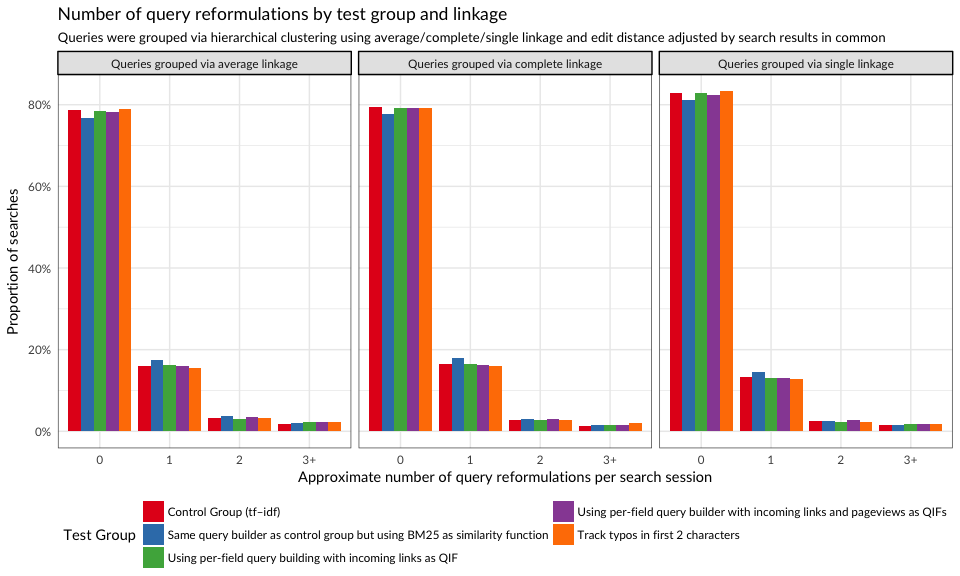
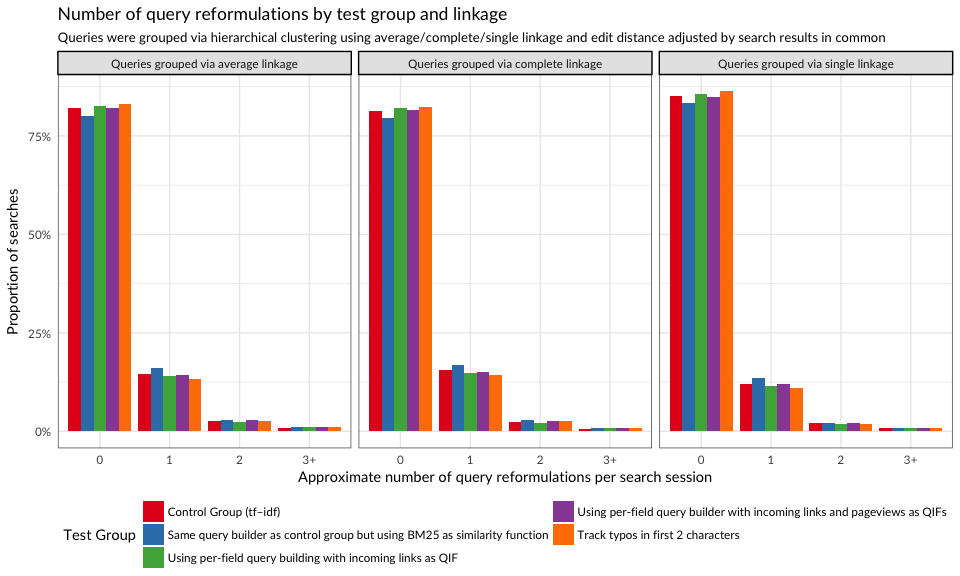
First draft

diff --git a/docs/index.html b/docs/index.html
@@ -16,9 +16,9 @@
 <meta name="author" content="Deb Tankersley (Product Management)" />
 <meta name="author" content="Chelsy Xie (Review)" />
 
-<meta name="date" content="2016-09-29" />
+<meta name="date" content="2016-09-30" />
 
-<title>A/B Test of BM25 Search Ranking</title>
+<title>Improving search result relevancy on Wikipedia with BM25 ranking</title>
 
 <script src="index_files/jquery-1.11.3/jquery.min.js"></script>
 <script src="index_files/jqueryui-1.11.4/jquery-ui.min.js"></script>
@@ -272,15 +272,15 @@ div.tocify {
 
 
 
-<h1 class="title toc-ignore">A/B Test of BM25 Search Ranking</h1>
-<h3 class="subtitle"><em>Almost First Draft</em></h3>
+<h1 class="title toc-ignore">Improving search result relevancy on Wikipedia with BM25 ranking</h1>
+<h3 class="subtitle"><em>First Draft</em></h3>
 <h4 class="author"><em><a href = 'https://meta.wikimedia.org/wiki/User:EBernhardson_(WMF)'>Erik Bernhardson</a> (Engineering)</em></h4>
 <h4 class="author"><em><a href = 'https://www.mediawiki.org/wiki/User:DCausse_(WMF)'>David Causse</a> (Engineering)</em></h4>
 <h4 class="author"><em><a href = 'https://meta.wikimedia.org/wiki/User:TJones_(WMF)'>Trey Jones</a> (Engineering &amp; Review)</em></h4>
 <h4 class="author"><em><a href = 'https://meta.wikimedia.org/wiki/User:MPopov_(WMF)'>Mikhail Popov</a> (Analysis &amp; Report)</em></h4>
 <h4 class="author"><em><a href = 'https://meta.wikimedia.org/wiki/User:DTankersley_(WMF)'>Deb Tankersley</a> (Product Management)</em></h4>
 <h4 class="author"><em><a href = 'https://meta.wikimedia.org/wiki/User:CXie_(WMF)'>Chelsy Xie</a> (Review)</em></h4>
-<h4 class="date"><em>29 September 2016</em></h4>
+<h4 class="date"><em>30 September 2016</em></h4>
 
 </div>
 
@@ -300,37 +300,21 @@ $(function() {
 <p>
 { <a href="https://github.com/wikimedia-research/Discovery-Search-Test-BM25/blob/master/docs/index.Rmd">RMarkdown Source</a> | <a href="https://github.com/wikimedia-research/Discovery-Search-Test-BM25">Analysis Codebase</a> }
 </p>
-<div class="sourceCode"><pre class="sourceCode r"><code class="sourceCode r"><span class="co"># Load packages that we will be using in this report:</span>
-
-<span class="co"># install.packages(&quot;devtools&quot;)</span>
-<span class="co"># devtools::install_github(&quot;hadley/ggplot2&quot;)</span>
-<span class="co"># ^ development version of ggplot2 includes subtitles</span>
-<span class="co"># devtools::install_github(&quot;wikimedia/wikimedia-discovery-polloi&quot;)</span>
-<span class="co"># ^ for compressing 100000 into 100K</span>
-
-<span class="kw">library</span>(tidyverse) <span class="co"># install.packages(&quot;tidyverse&quot;)</span>
-<span class="co"># ^ for ggplot2, dplyr, tidyr, broom, etc.</span>
-
-<span class="kw">library</span>(binom) <span class="co"># install.packages(&quot;binom&quot;)</span>
-<span class="co"># ^ for Bayesian confidence intervals of proportions</span>
-
-<span class="co"># Font to go together with HTML version of report: http://www.latofonts.com/</span>
-<span class="co"># extrafont::font_import(&quot;~/Downloads/Lato2OFL&quot;)</span></code></pre></div>
 <div id="executive-summary" class="section level2">
 <h2>Executive Summary</h2>
 <p>In order to improve the relevancy of search results, Discovery’s Search team has decided to test a new document ranking method called BM25, which would replace the term frequency–inverse document frequency (tf–idf) method that is currently used. We saw the following results from our analysis:</p>
 <dl>
 <dt>Same query builder as control group but using BM25 as similarity function</dt>
-<dd>For searches made by users in this group, we use the same query builder as we use for the control group but we switched the similarity function to BM25 and employ a weighted sum for the incoming links query independant factor (QIF). Users in this group were less likely to click on the 1st search result and instead more likely to click on the second search result. They were also more likely to reformulate their query. With regards to zero results rate (ZRR), PaulScore, and engagement, users in this group were very similar to users in the control group.
+<dd>For searches made by users in this group, we use the same query builder as we use for the control group but we switched the similarity function to BM25 and employ a weighted sum for the incoming links query independent factor (QIF). Users in this group were less likely to click on the 1st search result and instead more likely to click on the second search result. They were also more likely to reformulate their query. With regards to zero results rate (ZRR), PaulScore, and engagement, users in this group were very similar to users in the control group.
 </dd>
 <dt>Using per-field query building with incoming links as QIF</dt>
-<dd>For searches made by users in this group, we use BM25 similarity and switch to a per-field query builder using only incoming links as a query independant factor. This group had the second-highest PaulScores and engagement, both in searches where the user reformulated their query and in searches without query reformulation. Users in this group were more likely to click on the first search result than users in the control group.
+<dd>For searches made by users in this group, we use BM25 similarity and switch to a per-field query builder using only incoming links as a query independent factor. This group had the second-highest PaulScores and engagement in searches where the user reformulated their query. Users in this group were more likely to click on the first search result than users in the control group.
 </dd>
 <dt>Using per-field query builder with incoming links and pageviews as QIFs</dt>
 <dd>Similar to the group described above but we added pageviews as an additional query independent factor for searches made by users in this group. This group had the highest PaulScores and engagement, both in searches where the user reformulated their query and in searches without query reformulation. Users in this group were a lot more likely to click on the first search result than users in the control group.
 </dd>
 <dt>Track typos in first 2 characters</dt>
-<dd>Similar to the group described above (<em>using per-field query builder with incoming links and pageviews as QIFs</em>), but with an additional field to track typos in the first two characters. This group had the lowest ZRR, and its ZRR was statistically significantly smaller than the control group’s ZRR. This group also had the smallest proportion of searches where the user reformulated their query. Users in this group were a lot more likely to click on the first search result than users in the control group.
+<dd>Similar to the group described above (<em>using per-field query builder with incoming links and pageviews as QIFs</em>), but with an additional field to track typos in the first two characters. This group had the lowest ZRR, and its ZRR was significantly smaller than the control group’s ZRR. This group also had the smallest proportion of searches where the user reformulated their query. Users in this group were a lot more likely to click on the first search result than users in the control group, but had lowest overall engagement with the search results.
 </dd>
 </dl>
 <p>We recommend switching to BM25 ranking with incoming links (and possibly pageviews) as query-independent factors, as this configuration appears to give users results that are more relevant and that they engage with more (especially the first search result).</p>
@@ -355,10 +339,10 @@ $(function() {
 <dd>Identical to what we serve to our users today plus an artificial latency to compensate the fact that we run the other buckets on another data center. (nDCG<sub>5</sub> score on Discernatron: 0.2772)
 </dd>
 <dt>Same query builder as control group but using BM25 as similarity function</dt>
-<dd>For searches made by users in this group, we use the same query builder as we use for the control group but we switched the similarity function to BM25 and employ a weighted sum for the incoming links query independant factor (QIF). We expected this bucket to behave poorly in term of clickthrough compared to the control group. We included this group confirm our assumptions that the current query builder and the “all field” approach is not designed for the BM25 similarity. (nDCG<sub>5</sub> score on Discernatron: 0.2689)
+<dd>For searches made by users in this group, we use the same query builder as we use for the control group but we switched the similarity function to BM25 and employ a weighted sum for the incoming links query independent factor (QIF). We expected this bucket to behave poorly in term of clickthrough compared to the control group. We included this group confirm our assumptions that the current query builder and the “all field” approach is not designed for the BM25 similarity. (nDCG<sub>5</sub> score on Discernatron: 0.2689)
 </dd>
 <dt>Using per-field query building with incoming links as QIF</dt>
-<dd>For searches made by users in this group, we use BM25 similarity and switch to a per-field query builder using only incoming links as a query independant factor. This is the best contender according to Discernatron. We expect an increase in clickthrough because it tends rank obvious matches in the top 3. (nDCG<sub>5</sub> score on Discernatron: 0.3362)
+<dd>For searches made by users in this group, we use BM25 similarity and switch to a per-field query builder using only incoming links as a query independent factor. This is the best contender according to Discernatron. We expect an increase in clickthrough because it tends rank obvious matches in the top 3. (nDCG<sub>5</sub> score on Discernatron: 0.3362)
 </dd>
 <dt>Using per-field query builder with incoming links and pageviews as QIFs</dt>
 <dd>Similar to the group described above but we added pageviews as an additional query independent factor for searches made by users in this group. The weight for pageviews is still very low compared to incoming links and this test is mostly to see how pageviews could affect the ranking. We expect a very minimal difference in behavior compared to group <em>using per-field query building with incoming links as QIF</em>. (nDCG<sub>5</sub> score on Discernatron: 0.3359)
@@ -398,8 +382,58 @@ $(function() {
 <strong>Snippet 1</strong>: Query used to extract BM25 test data from our event logging database.
 </p>
 </div>
+<div id="software" class="section level3">
+<h3>Software</h3>
+<p>We used the statistical analysis software and programming language R<sup><a href="#ref-2">[2]</a></sup> to perform this analysis. R packages used the most in this report include ggplot2<sup><a href="#ref-4">[4]</a></sup>, dplyr<sup><a href="#ref-5">[5]</a></sup>, and binom<sup><a href="#ref-8">[8]</a></sup>.</p>
+<div class="sourceCode"><pre class="sourceCode r"><code class="sourceCode r"><span class="co"># Install packages used in the report:</span>
+<span class="kw">install.packages</span>(<span class="kw">c</span>(<span class="st">&quot;devtools&quot;</span>, <span class="st">&quot;tidyverse&quot;</span>, <span class="st">&quot;binom&quot;</span>))
+devtools::<span class="kw">install_github</span>(<span class="st">&quot;hadley/ggplot2&quot;</span>)
+<span class="co"># ^ development version of ggplot2 includes subtitles</span>
+devtools::<span class="kw">install_github</span>(<span class="st">&quot;wikimedia/wikimedia-discovery-polloi&quot;</span>)
+<span class="co"># ^ for converting 100000 into 100K via polloi::compress()</span></code></pre></div>
+<div class="sourceCode"><pre class="sourceCode r"><code class="sourceCode r"><span class="co"># Load packages that we will be using in this report:</span>
+<span class="kw">library</span>(tidyverse) <span class="co"># for ggplot2, dplyr, tidyr, broom, etc.</span>
+<span class="kw">library</span>(binom) <span class="co"># for Bayesian confidence intervals of proportions</span></code></pre></div>
+</div>
 <div id="query-reformulation-detection" class="section level3">
 <h3>Query Reformulation Detection</h3>
+<p>When a user searches Wikipedia using query <span class="math inline">\(Q\)</span> and does not get the results that they were looking for then they might give up, or they might reformulate their query and search for <span class="math inline">\(Q&#39;, Q&#39;&#39;, Q&#39;&#39;&#39;\)</span>, etc., each time fixing a typo, editing a word, or adding new information. For example, if the user searches for the restaurant chain “Buffalo Wild Wings” using the search query “buffalo”, they won’t see the result on the first search results page. The user might go to the second page of results, in which case they would see the result they want, or they user might reformulate their query to instead say “buffalo wings”.</p>
+<p>First, we computed the <a href="https://en.wikipedia.org/wiki/Levenshtein_distance">Levenshtein (edit) distance</a> (normalized via dividing by maximum of two search queries). Then we adjusted those normalized distances by the amount that their search results overlapped. Specifically, if <span class="math inline">\(d_{Q, Q&#39;}\)</span> is the edit distance between queries <span class="math inline">\(Q\)</span> and <span class="math inline">\(Q&#39;\)</span> and <span class="math inline">\(\rho_{Q, Q&#39;} \in [0, 1]\)</span> is the number of results in common normalized via dividing by minimum size of the two result sets, then the new distance is: <span class="math display">\[{d&#39;}_{Q, Q&#39;} = \frac{d_{Q, Q&#39;}}{10^{\rho_{Q, Q&#39;}}}.\]</span> So if <span class="math inline">\(Q\)</span> and <span class="math inline">\(Q&#39;\)</span> are moderately similar but have all results in common, then the new distance is 1/10<sup>th</sup> of their initially calculated distance, and brings them a lot closer to each other. If they do not have any results in common, their edit distance in unaffected. After we have calculated the distances between queries in a search session, we use <a href="https://en.wikipedia.org/wiki/Cluster_analysis#Connectivity-based_clustering_.28hierarchical_clustering.29">hierarchical agglomerative clustering</a> to group those queries based on their adjusted closeness (similarity). In this report we present an analysis result when employing each of the three linkages (<a href="https://en.wikipedia.org/wiki/Complete-linkage_clustering">complete</a>, <a href="https://en.wikipedia.org/wiki/Single-linkage_clustering">single</a>, and <a href="https://en.wikipedia.org/wiki/UPGMA">average</a>), since the choice of linkage affects the clustering (see Table 1 for an example).</p>
+<p>For example:</p>
+<table>
+<thead>
+<tr class="header">
+<th align="left">Search query</th>
+<th align="center">Single-linkage</th>
+<th align="center">Complete-linkage</th>
+</tr>
+</thead>
+<tbody>
+<tr class="odd">
+<td align="left">brtisth gas</td>
+<td align="center">A</td>
+<td align="center">A</td>
+</tr>
+<tr class="even">
+<td align="left">brtisth gaz</td>
+<td align="center">A</td>
+<td align="center">A</td>
+</tr>
+<tr class="odd">
+<td align="left">brtisth gazcomapny</td>
+<td align="center">B</td>
+<td align="center">A</td>
+</tr>
+<tr class="even">
+<td align="left">fusion shell bg group</td>
+<td align="center">C</td>
+<td align="center">B</td>
+</tr>
+</tbody>
+</table>
+<p class="caption">
+<strong>Table 1</strong>: Example of how choice of linkage affects clustering of queries from a real search session.
+</p>
 <div class="sourceCode"><pre class="sourceCode r"><code class="sourceCode r">overlapping_results &lt;-<span class="st"> </span>function(x) {
   if (<span class="kw">all</span>(<span class="kw">is.na</span>(x))) {
     <span class="kw">return</span>(<span class="kw">diag</span>(<span class="kw">length</span>(x)))
@@ -427,7 +461,7 @@ cluster_queries &lt;-<span class="st"> </span>function(queries, results, <span c
   input &lt;-<span class="st"> </span><span class="kw">data.frame</span>(<span class="dt">query =</span> queries, <span class="dt">stringsAsFactors =</span> <span class="ot">FALSE</span>)
   x &lt;-<span class="st"> </span><span class="kw">do.call</span>(rbind, <span class="kw">lapply</span>(input$query, function(x) {
     <span class="co"># Compute for each x in input$query the normalized edit distance from x to input$query:</span>
-    normalized_distances &lt;-<span class="st"> </span><span class="kw">adist</span>(<span class="kw">tolower</span>(x), <span class="kw">tolower</span>(input$query), <span class="dt">fixed =</span> <span class="ot">TRUE</span>)/<span class="kw">max</span>(<span class="kw">nchar</span>(input$query))
+    normalized_distances &lt;-<span class="st"> </span><span class="kw">adist</span>(<span class="kw">tolower</span>(x), <span class="kw">tolower</span>(input$query), <span class="dt">fixed =</span> <span class="ot">TRUE</span>)/<span class="kw">pmax</span>(<span class="kw">nchar</span>(x), <span class="kw">nchar</span>(input$query))
     <span class="co"># Return:</span>
     <span class="kw">return</span>(normalized_distances)
   }))
@@ -472,11 +506,10 @@ cluster_queries &lt;-<span class="st"> </span>function(queries, results, <span c
   }
   <span class="kw">return</span>(output$cluster)
 }</code></pre></div>
-<p>Sed finibus magna eu turpis laoreet, eu convallis ex convallis. Suspendisse potenti. Maecenas bibendum nunc at leo iaculis laoreet. Cras eros libero, sollicitudin sed ligula quis, molestie rutrum est. Aenean pharetra volutpat luctus. Nulla facilisi. Ut rutrum, augue ac faucibus maximus, dui sem lacinia lectus, ut egestas dui ligula sed enim. Nunc tincidunt velit eu augue tincidunt maximus. Nam nec ante nec lacus iaculis fringilla eu non turpis. Duis id urna vehicula, mattis urna sed, condimentum neque. Nunc eget lectus elementum, imperdiet odio suscipit, tristique mauris.</p>
 </div>
 <div id="paulscore-definition" class="section level3">
 <h3>PaulScore Definition</h3>
-<p>PaulScore<a href="#ref-1">[1]</a> is computed via the following steps:</p>
+<p>PaulScore<a href="#ref-1">[1]</a> is a measure of search results’ relevancy which takes into account the position of the clicked results, and is computed via the following steps:</p>
 <ol>
 <li>Pick scoring factor <span class="math inline">\(0 &lt; F &lt; 1\)</span>.</li>
 <li>For <span class="math inline">\(i\)</span>-th search session <span class="math inline">\(S_i\)</span> <span class="math inline">\((i = 1, \ldots, n)\)</span> containing <span class="math inline">\(m\)</span> queries <span class="math inline">\(Q_1, \ldots, Q_m\)</span> and search result sets <span class="math inline">\(\mathbf{R}_1, \ldots, \mathbf{R}_m\)</span>:
@@ -518,7 +551,7 @@ events$test_group &lt;-<span class="st"> </span><span class="kw">factor</span>(
 cirrus &lt;-<span class="st"> </span>readr::<span class="kw">read_tsv</span>(<span class="kw">path</span>(<span class="st">&quot;data/ab-test_bm25_cirrus-results.tsv.gz&quot;</span>), <span class="dt">col_types =</span> <span class="st">&quot;ccc&quot;</span>)
 events &lt;-<span class="st"> </span><span class="kw">left_join</span>(events, cirrus, <span class="dt">by =</span> <span class="kw">c</span>(<span class="st">&quot;event_id&quot;</span>, <span class="st">&quot;page_id&quot;</span>))
 <span class="kw">rm</span>(cirrus)</code></pre></div>
-<p>The test was deployed on September 1st and ran for 10 days, collecting a total of 119.6K events from 36.2K unique sessions. See Table 1 for counts broken down by test group.</p>
+<p>The test was deployed on September 1st and ran for 10 days, collecting a total of 119.6K events from 36.2K unique sessions. See Table 2 for counts broken down by test group.</p>
 <div class="sourceCode"><pre class="sourceCode r"><code class="sourceCode r">events_summary &lt;-<span class="st"> </span>events %&gt;%
 <span class="st">  </span><span class="kw">group_by</span>(<span class="st">`</span><span class="dt">Test group</span><span class="st">`</span> =<span class="st"> </span>test_group) %&gt;%
 <span class="st">  </span><span class="kw">summarize</span>(<span class="st">`</span><span class="dt">Search sessions</span><span class="st">`</span> =<span class="st"> </span><span class="kw">length</span>(<span class="kw">unique</span>(search_id)), <span class="st">`</span><span class="dt">Events recorded</span><span class="st">`</span> =<span class="st"> </span><span class="kw">n</span>()) %&gt;%
@@ -579,11 +612,11 @@ knitr::<span class="kw">kable</span>(events_summary, <span class="dt">format =</
 </tbody>
 </table>
 <p class="caption">
-<strong>Table 1</strong>: Counts of sessions anonymously tracked and events collected during the one-week-long A/B test.
+<strong>Table 2</strong>: Counts of sessions anonymously tracked and events collected during the one-week-long A/B test.
 </p>
 <div id="serp-de-duplication" class="section level3">
 <h3>SERP De-duplication</h3>
-<p>Duis massa dolor, luctus nec purus sed, euismod condimentum neque. Maecenas laoreet mauris at dui consequat gravida. Curabitur ut consequat lacus. In libero sem, dignissim ac ultricies eget, ornare eu ex. Phasellus sed lacus malesuada, luctus sapien et, gravida risus. Phasellus sed tempor metus. Morbi a dignissim tellus.</p>
+<p>An issue we noticed with the event logging is that when the user goes to the next page of search results or clicks the Back button after visiting a search result, a new page ID is generated for the search results page. The page ID is how we connect click events to search result page events. There is currently a Phabricator ticket (<a href="https://phabricator.wikimedia.org/T146337">T146337</a>) for addressing these issues. For this analysis, we de-duplicated by connecting SERP events that have the exact same search query, and then connected click events together based on the SERP connection.</p>
 <div class="sourceCode"><pre class="sourceCode r"><code class="sourceCode r"><span class="co"># Correct for when user uses pagination or uses back button to go back to SERP after visiting a result.</span>
 <span class="co"># Start by assigning the same page_id to different SERPs that have exactly the same query:</span>
 temp &lt;-<span class="st"> </span>events %&gt;%
@@ -630,12 +663,13 @@ safe_clust &lt;-<span class="st"> </span>function(search_id, page_ids, queries, 
     <span class="kw">return</span>(clusters)
   }
 }</code></pre></div>
+<p>After de-duplicating, we collapsed 101.1K (SERP and click) events into 70K searches.</p>
 <div class="sourceCode"><pre class="sourceCode r"><code class="sourceCode r">searches &lt;-<span class="st"> </span>searches %&gt;%
 <span class="st">  </span><span class="kw">group_by</span>(<span class="st">`</span><span class="dt">test group</span><span class="st">`</span>, session_id, search_id) %&gt;%
 <span class="st">  </span><span class="kw">mutate</span>(
-    <span class="dt">cluster_single =</span> <span class="kw">safe_clust</span>(search_id, page_id, query, <span class="st">`</span><span class="dt">result page IDs</span><span class="st">`</span>, <span class="fl">0.3</span>, <span class="st">&quot;single&quot;</span>),
+    <span class="dt">cluster_single =</span> <span class="kw">safe_clust</span>(search_id, page_id, query, <span class="st">`</span><span class="dt">result page IDs</span><span class="st">`</span>, <span class="fl">0.301</span>, <span class="st">&quot;single&quot;</span>),
     <span class="dt">cluster_average =</span> <span class="kw">safe_clust</span>(search_id, page_id, query, <span class="st">`</span><span class="dt">result page IDs</span><span class="st">`</span>, <span class="fl">0.433</span>, <span class="st">&quot;average&quot;</span>),
-    <span class="dt">cluster_complete =</span> <span class="kw">safe_clust</span>(search_id, page_id, query, <span class="st">`</span><span class="dt">result page IDs</span><span class="st">`</span>, <span class="fl">0.377</span>, <span class="st">&quot;complete&quot;</span>)
+    <span class="dt">cluster_complete =</span> <span class="kw">safe_clust</span>(search_id, page_id, query, <span class="st">`</span><span class="dt">result page IDs</span><span class="st">`</span>, <span class="fl">0.45</span>, <span class="st">&quot;complete&quot;</span>)
   )</code></pre></div>
 <div class="sourceCode"><pre class="sourceCode r"><code class="sourceCode r">most_common &lt;-<span class="st"> </span>function(x) {
   if (<span class="kw">all</span>(<span class="kw">is.na</span>(x))) {
@@ -684,7 +718,7 @@ query_reformulations &lt;-<span class="st"> </span><span class="kw">bind_rows</s
 </div>
 <div id="query-reformulation" class="section level3">
 <h3>Query Reformulation</h3>
-<p>In Figures 1 and 2, we see…</p>
+<p>As mentioned in the Methods section, we used hierarchical clustering to group similar searches together. That is, if the edit distance between two search queries is small enough and the search result sets overlap, those searches are probably the user reformulating their query. In Figures 1 and 2, we see proportions of searches that were reformulations, according to three different ways to group searches. The second group (“same query builder as control group but using BM25”) had the highest proportion of searches where the user reformulated their query at least once. According to clustering via single linkage, the last group (BM25 with incoming links and tracking typos) had the lowest proportion of query reformulations.</p>
 <div class="sourceCode"><pre class="sourceCode r"><code class="sourceCode r"><span class="co"># Calculate proportions of searches with 0, 1, 2, 3+ query reformulations</span>
 query_reformulations %&gt;%
 <span class="st">  </span><span class="kw">mutate</span>(<span class="st">`</span><span class="dt">query reformulations</span><span class="st">`</span> =<span class="st"> </span>forcats::<span class="kw">fct_lump</span>(<span class="kw">factor</span>(reformulations), <span class="dv">3</span>, <span class="dt">other_level =</span> <span class="st">&quot;3+&quot;</span>)) %&gt;%
@@ -728,12 +762,12 @@ reformulation_counts &lt;-<span class="st"> </span><span class="kw">cbind</span>
              <span class="dt">data =</span> <span class="kw">filter</span>(reformulation_counts, <span class="st">`</span><span class="dt">test group</span><span class="st">`</span> ==<span class="st"> &quot;Control Group (tf–idf)&quot;</span>)) +
 <span class="st">  </span><span class="kw">geom_pointrange</span>(<span class="kw">aes</span>(<span class="dt">ymin =</span> lower, <span class="dt">ymax =</span> upper), <span class="dt">position =</span> <span class="kw">position_dodge</span>(<span class="dt">width =</span> <span class="dv">1</span>)) +
 <span class="st">  </span><span class="kw">scale_y_continuous</span>(<span class="dt">labels =</span> scales::<span class="kw">percent_format</span>(),
-                     <span class="dt">breaks =</span> <span class="kw">seq</span>(.<span class="dv">16</span>, .<span class="dv">24</span>, <span class="fl">0.01</span>),
-                     <span class="dt">minor_breaks =</span> <span class="kw">seq</span>(.<span class="dv">16</span>, .<span class="dv">24</span>, <span class="fl">0.005</span>),
+                     <span class="dt">breaks =</span> <span class="kw">seq</span>(.<span class="dv">10</span>, .<span class="dv">24</span>, <span class="fl">0.01</span>),
+                     <span class="dt">minor_breaks =</span> <span class="kw">seq</span>(.<span class="dv">10</span>, .<span class="dv">24</span>, <span class="fl">0.005</span>),
                      <span class="dt">expand =</span> <span class="kw">c</span>(<span class="fl">0.01</span>, <span class="fl">0.01</span>)) +
 <span class="st">  </span><span class="kw">scale_color_brewer</span>(<span class="st">&quot;Test Group&quot;</span>, <span class="dt">palette =</span> <span class="st">&quot;Set1&quot;</span>, <span class="dt">guide =</span> <span class="kw">guide_legend</span>(<span class="dt">ncol =</span> <span class="dv">2</span>)) +
 <span class="st">  </span><span class="kw">facet_wrap</span>(~<span class="st"> </span>linkage, <span class="dt">ncol =</span> <span class="dv">3</span>) +
-<span class="st">  </span><span class="kw">geom_text</span>(<span class="kw">aes</span>(<span class="dt">label =</span> <span class="kw">sprintf</span>(<span class="st">&quot;%.1f%%&quot;</span>, <span class="dv">100</span> *<span class="st"> </span>proportion), <span class="dt">y =</span> upper +<span class="st"> </span><span class="fl">0.005</span>, <span class="dt">vjust =</span> <span class="st">&quot;bottom&quot;</span>),
+<span class="st">  </span><span class="kw">geom_text</span>(<span class="kw">aes</span>(<span class="dt">label =</span> <span class="kw">sprintf</span>(<span class="st">&quot;%.1f%%&quot;</span>, <span class="dv">100</span> *<span class="st"> </span>proportion), <span class="dt">y =</span> upper +<span class="st"> </span><span class="fl">0.0025</span>, <span class="dt">vjust =</span> <span class="st">&quot;bottom&quot;</span>),
             <span class="dt">position =</span> <span class="kw">position_dodge</span>(<span class="dt">width =</span> <span class="dv">1</span>)) +
 <span class="st">  </span><span class="kw">labs</span>(<span class="dt">y =</span> <span class="st">&quot;% of searches with query reformulations&quot;</span>, <span class="dt">x =</span> <span class="ot">NULL</span>,
        <span class="dt">title =</span> <span class="st">&quot;Searches with reformulated queries by test group (and linkage)&quot;</span>,
@@ -753,7 +787,7 @@ reformulation_counts &lt;-<span class="st"> </span><span class="kw">cbind</span>
 </div>
 <div id="zero-results-rate" class="section level3">
 <h3>Zero Results Rate</h3>
-<p>In Figure 3, we see…</p>
+<p>In Figure 3, we see that zero results rate (ZRR) was not so different between the groups. The test group where we tracked typos in first two characters had a significantly lower ZRR, but perhaps at the cost of relevance and engagement with the results (see Figure 5).</p>
 <div class="sourceCode"><pre class="sourceCode r"><code class="sourceCode r">zrr_pages &lt;-<span class="st"> </span>searches %&gt;%
 <span class="st">  </span><span class="kw">group_by</span>(<span class="st">`</span><span class="dt">test group</span><span class="st">`</span>, results) %&gt;%
 <span class="st">  </span>tally %&gt;%
@@ -783,7 +817,7 @@ zrr_pages &lt;-<span class="st"> </span><span class="kw">cbind</span>(zrr_pages,
 </div>
 <div id="paulscore" class="section level3">
 <h3>PaulScore</h3>
-<p>In Figure 4, we see…</p>
+<p>In Figure 4, we see that the test groups that used BM25 with incoming links and pageviews as query-independent factors had higher PaulScores, which indicates that the results were more relevant.</p>
 <div class="sourceCode"><pre class="sourceCode r"><code class="sourceCode r"><span class="kw">set.seed</span>(<span class="dv">0</span>) <span class="co"># for reproducibility</span>
 paulscores &lt;-<span class="st"> </span>searches %&gt;%
 <span class="st">  </span>ungroup %&gt;%
@@ -821,7 +855,37 @@ paulscores &lt;-<span class="st"> </span>searches %&gt;%
 </div>
 <div id="engagement" class="section level3">
 <h3>Engagement</h3>
-<p>In Figure 5, we see…</p>
+<p>In Figures 5 and 6, we see that the test groups that used BM25 with incoming links and pageviews as query-independent factors engaged with their search results more. The group whose search configuration included pageviews had a much higher clickthrough rate than the control group when they did not reformulate their search query.</p>
+<div class="sourceCode"><pre class="sourceCode r"><code class="sourceCode r">engagement_overall &lt;-<span class="st"> </span>searches %&gt;%
+<span class="st">  </span><span class="kw">group_by</span>(<span class="st">`</span><span class="dt">test group</span><span class="st">`</span>) %&gt;%
+<span class="st">  </span><span class="kw">summarize</span>(<span class="dt">clickthroughs =</span> <span class="kw">sum</span>(clickthrough &gt;<span class="st"> </span><span class="dv">0</span>),
+            <span class="dt">searches =</span> <span class="kw">n</span>(), <span class="dt">ctr =</span> clickthroughs/searches) %&gt;%
+<span class="st">  </span>ungroup
+engagement_overall &lt;-<span class="st"> </span><span class="kw">cbind</span>(
+  engagement_overall,
+  <span class="kw">as.data.frame</span>(
+    binom:::<span class="kw">binom.bayes</span>(
+      engagement_overall$clickthroughs,
+      <span class="dt">n =</span> engagement_overall$searches)[, <span class="kw">c</span>(<span class="st">&quot;mean&quot;</span>, <span class="st">&quot;lower&quot;</span>, <span class="st">&quot;upper&quot;</span>)]
+    )
+  )</code></pre></div>
+<div class="sourceCode"><pre class="sourceCode r"><code class="sourceCode r">engagement_overall %&gt;%
+<span class="st">  </span><span class="kw">ggplot</span>(<span class="kw">aes</span>(<span class="dt">x =</span> <span class="dv">1</span>, <span class="dt">y =</span> mean, <span class="dt">color =</span> <span class="st">`</span><span class="dt">test group</span><span class="st">`</span>)) +
+<span class="st">  </span><span class="kw">geom_hline</span>(<span class="kw">aes</span>(<span class="dt">yintercept =</span> mean), <span class="dt">linetype =</span> <span class="st">&quot;dashed&quot;</span>, <span class="dt">color =</span> RColorBrewer::<span class="kw">brewer.pal</span>(<span class="dv">3</span>, <span class="st">&quot;Set1&quot;</span>)[<span class="dv">1</span>],
+             <span class="dt">data =</span> <span class="kw">filter</span>(engagement_overall, <span class="st">`</span><span class="dt">test group</span><span class="st">`</span> ==<span class="st"> &quot;Control Group (tf–idf)&quot;</span>)) +
+<span class="st">  </span><span class="kw">geom_pointrange</span>(<span class="kw">aes</span>(<span class="dt">ymin =</span> lower, <span class="dt">ymax =</span> upper), <span class="dt">position =</span> <span class="kw">position_dodge</span>(<span class="dt">width =</span> <span class="dv">1</span>)) +
+<span class="st">  </span><span class="kw">scale_color_brewer</span>(<span class="st">&quot;Test Group&quot;</span>, <span class="dt">palette =</span> <span class="st">&quot;Set1&quot;</span>, <span class="dt">guide =</span> <span class="kw">guide_legend</span>(<span class="dt">ncol =</span> <span class="dv">2</span>)) +
+<span class="st">  </span><span class="kw">scale_y_continuous</span>(<span class="dt">labels =</span> scales::<span class="kw">percent_format</span>(), <span class="dt">expand =</span> <span class="kw">c</span>(<span class="fl">0.01</span>, <span class="fl">0.01</span>)) +
+<span class="st">  </span><span class="kw">labs</span>(<span class="dt">x =</span> <span class="ot">NULL</span>, <span class="dt">y =</span> <span class="st">&quot;Clickthrough rate&quot;</span>,
+       <span class="dt">title =</span> <span class="st">&quot;Engagement with search results by test group&quot;</span>) +
+<span class="st">  </span><span class="kw">geom_text</span>(<span class="kw">aes</span>(<span class="dt">label =</span> <span class="kw">sprintf</span>(<span class="st">&quot;%.1f%%&quot;</span>, <span class="dv">100</span> *<span class="st"> </span>ctr), <span class="dt">y =</span> upper +<span class="st"> </span><span class="fl">0.0025</span>, <span class="dt">vjust =</span> <span class="st">&quot;bottom&quot;</span>),
+            <span class="dt">position =</span> <span class="kw">position_dodge</span>(<span class="dt">width =</span> <span class="dv">1</span>)) +
+<span class="st">  </span><span class="kw">theme_minimal</span>(<span class="dt">base_family =</span> <span class="st">&quot;Lato&quot;</span>) +
+<span class="st">  </span><span class="kw">theme</span>(<span class="dt">legend.position =</span> <span class="st">&quot;bottom&quot;</span>)</code></pre></div>
+<div class="figure">
+<img src="index_files/figure-html/engagement_overall_eda-1.png" alt="Figure 5: Clickthrough rates of test groups." />
+<p class="caption"><strong>Figure 5</strong>: Clickthrough rates of test groups.</p>
+</div>
 <div class="sourceCode"><pre class="sourceCode r"><code class="sourceCode r"><span class="co"># Figure out engagement (clickthroughs) on a per-search (&quot;query cluster&quot;) basis:</span>
 per_search_engagement &lt;-<span class="st"> </span>query_reformulations %&gt;%
 <span class="st">  </span><span class="kw">filter</span>(results ==<span class="st"> &quot;some&quot;</span>) %&gt;%
@@ -866,13 +930,13 @@ engagement &lt;-<span class="st"> </span><span class="kw">cbind</span>(
         <span class="dt">strip.background =</span> <span class="kw">element_rect</span>(<span class="dt">fill =</span> <span class="st">&quot;gray90&quot;</span>),
         <span class="dt">panel.border =</span> <span class="kw">element_rect</span>(<span class="dt">color =</span> <span class="st">&quot;gray30&quot;</span>, <span class="dt">fill =</span> <span class="ot">NA</span>))</code></pre></div>
 <div class="figure">
-<img src="index_files/figure-html/engagement_eda-1.png" alt="Figure 5: Clickthrough rates of test groups after splitting searches into those having query reformulations and those without query reformulations." />
-<p class="caption"><strong>Figure 5</strong>: Clickthrough rates of test groups after splitting searches into those having query reformulations and those without query reformulations.</p>
+<img src="index_files/figure-html/engagement_eda-1.png" alt="Figure 6: Clickthrough rates of test groups after splitting searches into those having query reformulations and those without query reformulations." />
+<p class="caption"><strong>Figure 6</strong>: Clickthrough rates of test groups after splitting searches into those having query reformulations and those without query reformulations.</p>
 </div>
 </div>
 <div id="first-clicked-results-position" class="section level3">
 <h3>First Clicked Result’s Position</h3>
-<p>In Figure 6, we see…</p>
+<p>In Figure 7, we see that users who got the “all-field” query builder with BM25 were much less likely to click on the first search result first than the other groups. Other test groups (whose search configurations used incoming links) first clicked on the first result at a much higher rate than users in the control group.</p>
 <div class="sourceCode"><pre class="sourceCode r"><code class="sourceCode r">safe_ordinals &lt;-<span class="st"> </span>function(x) {
   <span class="kw">return</span>(<span class="kw">vapply</span>(x, toOrdinal::toOrdinal, <span class="st">&quot;&quot;</span>))
 }
@@ -912,10 +976,14 @@ first_clicked &lt;-<span class="st"> </span><span class="kw">cbind</span>(first_
         <span class="dt">strip.background =</span> <span class="kw">element_rect</span>(<span class="dt">fill =</span> <span class="st">&quot;gray90&quot;</span>),
         <span class="dt">panel.border =</span> <span class="kw">element_rect</span>(<span class="dt">color =</span> <span class="st">&quot;gray30&quot;</span>, <span class="dt">fill =</span> <span class="ot">NA</span>))</code></pre></div>
 <div class="figure">
-<img src="index_files/figure-html/first_clicked_position_eda-1.png" alt="Figure 6: First clicked result’s position by group." />
-<p class="caption"><strong>Figure 6</strong>: First clicked result’s position by group.</p>
+<img src="index_files/figure-html/first_clicked_position_eda-1.png" alt="Figure 7: First clicked result’s position by group." />
+<p class="caption"><strong>Figure 7</strong>: First clicked result’s position by group.</p>
 </div>
 </div>
+</div>
+<div id="conclusion" class="section level2">
+<h2>Conclusion</h2>
+<p>We recommend switching to BM25 ranking with incoming links (and possibly pageviews) as query-independent factors, as this configuration appears to give users results that are more relevant and that they engage with more (especially the first search result).</p>
 </div>
 <div id="references" class="section level2">
 <h2>References</h2>
@@ -927,40 +995,40 @@ first_clicked &lt;-<span class="st"> </span><span class="kw">cbind</span>(first_
 </li>
 </ol>
 </div>
-<div id="software" class="section level3">
+<div id="software-1" class="section level3">
 <h3>Software</h3>
 <ol start="2" style="list-style-type: decimal">
-<li id="ref-5">
+<li id="ref-2">
 R Core Team (2016). <em>R: A Language and Environment for StatisticalComputing</em>. R Foundation for Statistical Computing, Vienna,Austria. <a href="https://www.R-project.org/" class="uri">https://www.R-project.org/</a>
 </li>
-<li id="ref-6">
+<li id="ref-3">
 Bache SM and Wickham H (2014). <em>magrittr: A Forward-Pipe Operatorfor R</em>. R package version 1.5, <a href="https://CRAN.R-project.org/package=magrittr" class="uri">https://CRAN.R-project.org/package=magrittr</a>
 </li>
-<li id="ref-7">
+<li id="ref-4">
 Wickham H (2009). <em>ggplot2: Elegant Graphics for Data Analysis</em>.Springer-Verlag New York. ISBN 978-0-387-98140-6, <a href="http://ggplot2.org" class="uri">http://ggplot2.org</a>
 </li>
-<li id="ref-8">
+<li id="ref-5">
 Wickham H and Francois R (2016). <em>dplyr: A Grammar of DataManipulation</em>. R package version 0.5.0, <a href="https://CRAN.R-project.org/package=dplyr" class="uri">https://CRAN.R-project.org/package=dplyr</a>
 </li>
-<li id="ref-9">
+<li id="ref-6">
 Wickham H (2016). <em>tidyr: Easily Tidy Data with <code>spread()</code> and<code>gather()</code> Functions</em>. R package version 0.6.0, <a href="https://CRAN.R-project.org/package=tidyr" class="uri">https://CRAN.R-project.org/package=tidyr</a>
 </li>
-<li id="ref-10">
+<li id="ref-7">
 Wickham H, Hester J and Francois R (2016). <em>readr: Read TabularData</em>. R package version 1.0.0, <a href="https://CRAN.R-project.org/package=readr" class="uri">https://CRAN.R-project.org/package=readr</a>
 </li>
-<li id="ref-11">
+<li id="ref-8">
 Dorai-Raj S (2014). <em>binom: Binomial Confidence Intervals ForSeveral Parameterizations</em>. R package version 1.1-1, <a href="https://CRAN.R-project.org/package=binom" class="uri">https://CRAN.R-project.org/package=binom</a>
 </li>
-<li id="ref-12">
+<li id="ref-9">
 Allaire J, Cheng J, Xie Y, McPherson J, Chang W, Allen J, WickhamH, Atkins A and Hyndman R (2016). <em>rmarkdown: Dynamic Documentsfor R</em>. R package version 1.0, <a href="https://CRAN.R-project.org/package=rmarkdown" class="uri">https://CRAN.R-project.org/package=rmarkdown</a>
 </li>
-<li id="ref-13">
+<li id="ref-10">
 Xie Y (2016). <em>knitr: A General-Purpose Package for Dynamic ReportGeneration in R</em>. R package version 1.14, <a href="http://yihui.name/knitr/" class="uri">http://yihui.name/knitr/</a>
 </li>
-<li id="ref-14">
+<li id="ref-11">
 Xie Y (2015). <em>Dynamic Documents with R and knitr</em>, 2nd edition.Chapman and Hall/CRC, Boca Raton, Florida. ISBN 978-1498716963, <a href="http://yihui.name/knitr/" class="uri">http://yihui.name/knitr/</a>
 </li>
-<li id="ref-15">
+<li id="ref-12">
 Xie Y (2014). “knitr: A Comprehensive Tool for ReproducibleResearch in R.” In Stodden V, Leisch F and Peng RD (eds.),<em>Implementing Reproducible Computational Research</em>. Chapman andHall/CRC. ISBN 978-1466561595, <a href="http://www.crcpress.com/product/isbn/9781466561595" class="uri">http://www.crcpress.com/product/isbn/9781466561595</a>
 </li>
 </ol>
